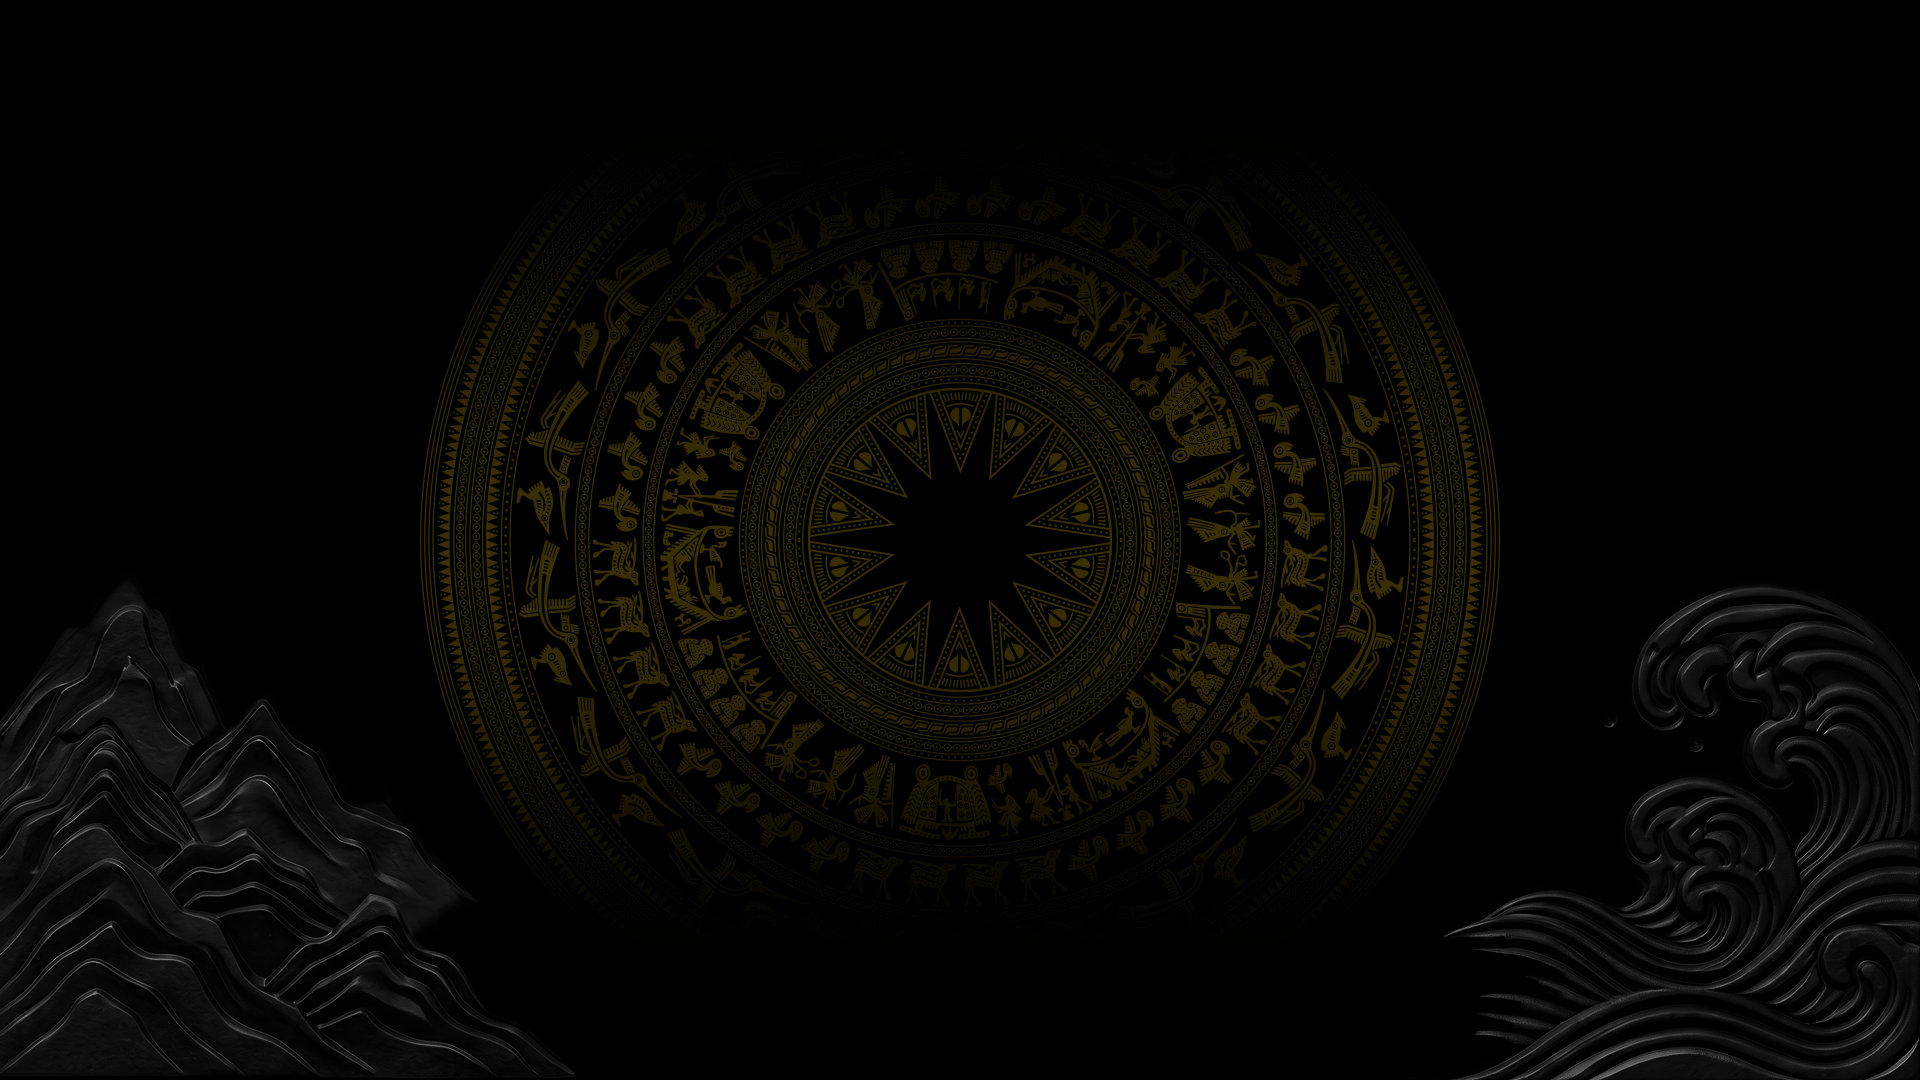
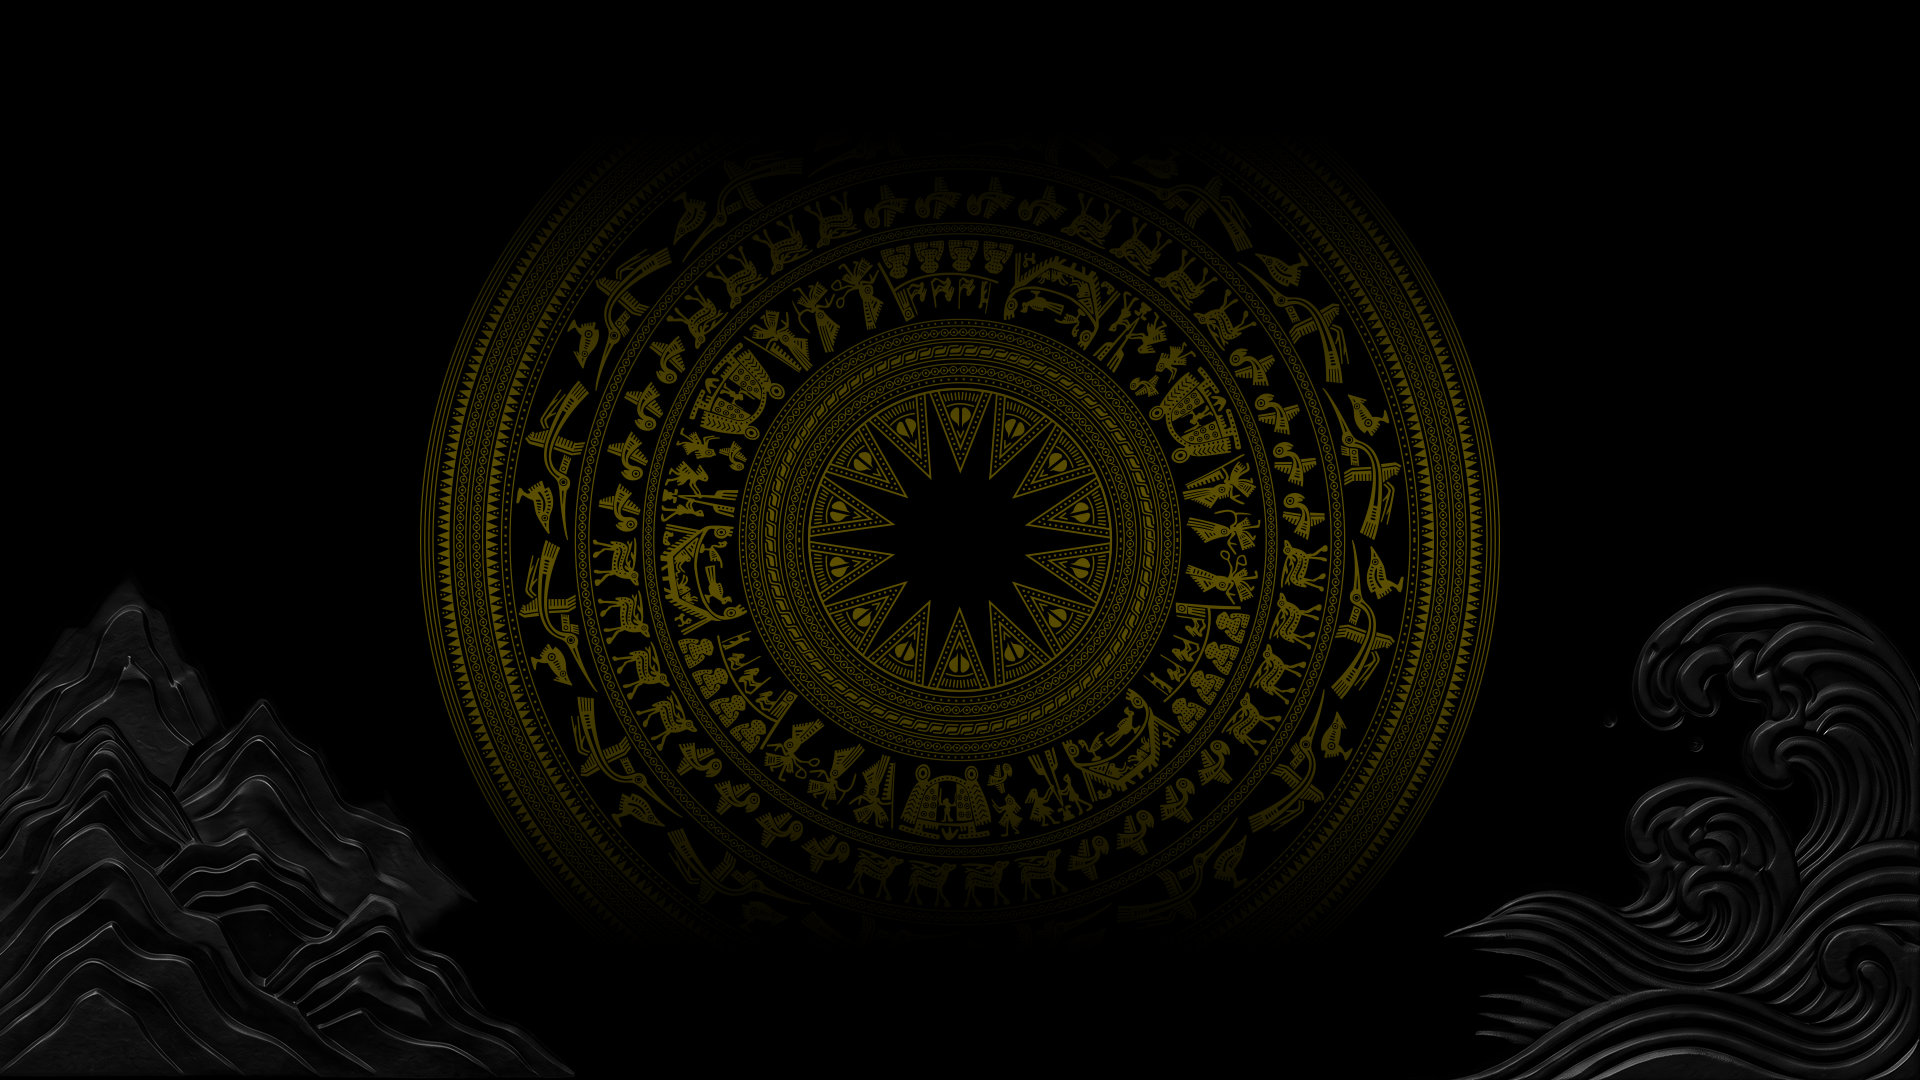
The name section takes the new drum artwork (#87)
* Lead the press list with the Hanoi and NACENTECH coverage

Reorder pressItems so the first page a reader sees is the three most
recent placements about the Austin work: Hanoi Television on the Texas
delegation, NACENTECH on Access Vietnam 2026, then the Ministry of
Culture, Sports and Tourism piece. The rest keep their existing order.

Claude-Session: https://claude.ai/code/session_01EXDbXYHbuGPnQzsRrrQxRC

* Swap the Enter Vietnam hero footage

New Wistia media on the Enter Vietnam hero, t0jdqo7des in place of
im4oab6ppu. The player settings are untouched: still muted, autoplaying,
looping, no controls, and scaled to cover the viewport at 16:9. The
per-media loader script in the layout follows the id, so the element is
defined before the hero paints.

Claude-Session: https://claude.ai/code/session_01EXDbXYHbuGPnQzsRrrQxRC

* The drum, the mountains and the sea behind the name section

The homepage origin section was flat black. It now carries the supplied
artwork: a Dong Son drum in the centre, the mountains at one bottom
corner and the waves at the other, which is the story the section tells.
On a wide screen the two 50s land over their own halves of it.

The upload is 1920x1080 and 816KB, re-encoded to 269KB at the same
dimensions. It is a background, so it also loads lazily rather than
competing with the hero video for the first paint. The original file is
untouched.

The drum's densest ring falls at the height of the copy, and a phone crop
[…]

Changed region(s): [[0.2188, 0.3056, 0.7812, 0.7028]]

diff --git a/artifacts/100b-website/components/TheName.tsx b/artifacts/100b-website/components/TheName.tsx
@@ -56,7 +56,7 @@ export function TheName() {
         className="absolute inset-0 pointer-events-none"
         style={{
           background:
-            "radial-gradient(ellipse 62% 48% at 50% 58%, rgba(0,0,0,0.92) 0%, rgba(0,0,0,0.7) 55%, transparent 78%)",
+            "radial-gradient(ellipse 68% 55% at 50% 56%, rgba(0,0,0,0.95) 0%, rgba(0,0,0,0.8) 55%, transparent 82%)",
         }}
         aria-hidden
       />
